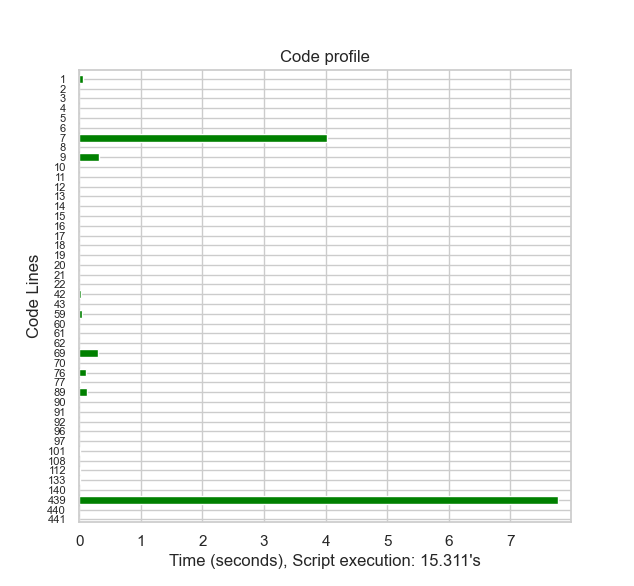
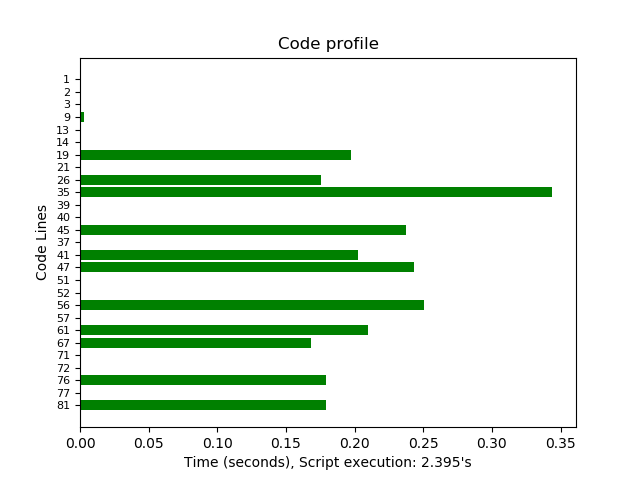
Third version in which file is copied for use by the script erased lines

Changed region(s): [[0.03, 0.0625, 0.929, 1.0]]

diff --git a/example_testfile_STP_test.py b/example_testfile_STP_test.py
@@ -20,36 +20,134 @@ speedtest_startime = datetime.now()
 import matplotlib.pyplot as plt
 STP_check(2, speedtest_startime)
 speedtest_startime = datetime.now()
+# This file will be use for the speedtest
+STP_check(3, speedtest_startime)
+speedtest_startime = datetime.now()
 ts = pd.Series(np.random.randn(1000),
                index=pd.date_range("1/1/2000", periods=1000))
 ts
 ts = np.exp(ts.cumsum())
-STP_check(6, speedtest_startime)
+STP_check(9, speedtest_startime)
 speedtest_startime = datetime.now()
 df = pd.DataFrame(np.random.randn(1000, 4),
                   index=ts.index, columns=list("ABCD"))
 df
 df.head()
-STP_check(10, speedtest_startime)
+STP_check(13, speedtest_startime)
 speedtest_startime = datetime.now()
 df.head()
-STP_check(11, speedtest_startime)
+STP_check(14, speedtest_startime)
 speedtest_startime = datetime.now()
 for i in df.index:
     df.tail()
 df.head()
 df.head()
-STP_check(16, speedtest_startime)
+STP_check(19, speedtest_startime)
 speedtest_startime = datetime.now()
 df.tail()
-STP_check(17, speedtest_startime)
+STP_check(21, speedtest_startime)
 speedtest_startime = datetime.now()
 for i in df.index:
-    
     df.tail()
 df.tail()
 df.tail()
-STP_check(24, speedtest_startime)
+STP_check(26, speedtest_startime)
+speedtest_startime = datetime.now()
+for i in df.index:
+    df.tail()
+ts = pd.Series(np.random.randn(1000),
+               index=pd.date_range("1/1/2000", periods=1000))
+ts
+ts = np.exp(ts.cumsum())
+STP_check(34, speedtest_startime)
+speedtest_startime = datetime.now()
+df = pd.DataFrame(np.random.randn(1000, 4),
+                  index=ts.index, columns=list("ABCD"))
+df
+df.head()
+STP_check(38, speedtest_startime)
+speedtest_startime = datetime.now()
+df.head()
+STP_check(40, speedtest_startime)
+speedtest_startime = datetime.now()
+for i in df.index:
+    df.tail()
+df.head()
+df.head()
+STP_check(36, speedtest_startime)
+speedtest_startime = datetime.now()
+df.tail()
+STP_check(37, speedtest_startime)
+speedtest_startime = datetime.now()
+for i in df.index:
+    df.tail()
+df.tail()
+df.tail()
+STP_check(41, speedtest_startime)
+speedtest_startime = datetime.now()
+for i in df.index:
+    df.tail()
+ts = pd.Series(np.random.randn(1000),
+               index=pd.date_range("1/1/2000", periods=1000))
+ts
+ts = np.exp(ts.cumsum())
+STP_check(47, speedtest_startime)
+speedtest_startime = datetime.now()
+df = pd.DataFrame(np.random.randn(1000, 4),
+                  index=ts.index, columns=list("ABCD"))
+df
+df.head()
+STP_check(51, speedtest_startime)
+speedtest_startime = datetime.now()
+df.head()
+STP_check(52, speedtest_startime)
+speedtest_startime = datetime.now()
+for i in df.index:
+    df.tail()
+df.head()
+df.head()
+STP_check(56, speedtest_startime)
+speedtest_startime = datetime.now()
+df.tail()
+STP_check(57, speedtest_startime)
+speedtest_startime = datetime.now()
+for i in df.index:
+    df.tail()
+df.tail()
+df.tail()
+STP_check(61, speedtest_startime)
+speedtest_startime = datetime.now()
+for i in df.index:
+    df.tail()
+ts = pd.Series(np.random.randn(1000),
+               index=pd.date_range("1/1/2000", periods=1000))
+ts
+ts = np.exp(ts.cumsum())
+STP_check(67, speedtest_startime)
+speedtest_startime = datetime.now()
+df = pd.DataFrame(np.random.randn(1000, 4),
+                  index=ts.index, columns=list("ABCD"))
+df
+df.head()
+STP_check(71, speedtest_startime)
+speedtest_startime = datetime.now()
+df.head()
+STP_check(72, speedtest_startime)
+speedtest_startime = datetime.now()
+for i in df.index:
+    df.tail()
+df.head()
+df.head()
+STP_check(76, speedtest_startime)
+speedtest_startime = datetime.now()
+df.tail()
+STP_check(77, speedtest_startime)
+speedtest_startime = datetime.now()
+for i in df.index:
+    df.tail()
+df.tail()
+df.tail()
+STP_check(81, speedtest_startime)
 speedtest_startime = datetime.now()
 for i in df.index:
     df.tail()

diff --git a/speed_testpy.py b/speed_testpy.py
@@ -22,20 +22,19 @@ class ScriptProfilerPy:
         self.erasedlines = []
 
         if self.filepath is not None and isinstance(self.filepath, str):
-            self.eraseEmptyLines()
+            try:
+                self.indent = len(sys.argv[1])
+            except:
+                self.indent = self.checkFileIndent()
         else:
-            raise ValueError("filepath should be complete path string to a valid py script")
-
-        try:
-            self.indent = len(sys.argv[1])
-        except:
-            self.indent = self.checkFileIndent()
+            raise ValueError(
+                "filepath should be complete path string to a valid py script")
 
     def test():
         pass
 
-    def eraseEmptyLines(self):
-        with open(self.filepath, 'r') as f:
+    def eraseEmptyLines(self, filetest_path_ext):
+        with open(filetest_path_ext, 'r') as f:
             contents = f.readlines()
             f.close()
             # Handle last line to prevent IndexError
@@ -45,16 +44,19 @@ class ScriptProfilerPy:
                     contents[i] = ""
                     self.erasedlines.append(i)
 
-        with open(self.filepath, 'w') as f:
+        with open(filetest_path_ext, 'w') as f:
             f.writelines(contents)
             f.close()
 
     def indexFirstMatch(self, matchvalue, matcharray):
         match_at = [i for i, j in enumerate(matcharray) if matchvalue <= j]
-        if len(matcharray) ==0:
+        if len(matcharray) == 0:
             return 0
         else:
-            return match_at[0]
+            try:
+                return match_at[0]
+            except:
+                return 0
 
     def Profiler(self):
         # Copy file example.txt into a new file called example_copy.txt
@@ -63,7 +65,7 @@ class ScriptProfilerPy:
         filetest_path_ext = filetest_path + '.py'
         shutil.copy2(self.filepath, filetest_path_ext)
 
-        self.eraseEmptyLines()
+        self.eraseEmptyLines(filetest_path_ext)
 
         with open(filetest_path_ext, 'r') as f:
             contents = f.readlines()

diff --git a/example_testfile.py b/example_testfile.py
@@ -2,6 +2,33 @@ import pandas as pd
 import numpy as np
 import matplotlib.pyplot as plt
 
+# This file will be use for the speedtest
+
+ts = pd.Series(np.random.randn(1000),
+               index=pd.date_range("1/1/2000", periods=1000))
+ts
+ts = np.exp(ts.cumsum())
+df = pd.DataFrame(np.random.randn(1000, 4),
+                  index=ts.index, columns=list("ABCD"))
+df
+df.head()
+df.head()
+
+
+for i in df.index:
+    df.tail()
+
+df.head()
+df.head()
+df.tail()
+
+
+for i in df.index:
+    df.tail()
+df.tail()
+df.tail()
+for i in df.index:
+    df.tail()
 
 ts = pd.Series(np.random.randn(1000),
                index=pd.date_range("1/1/2000", periods=1000))
@@ -19,7 +46,46 @@ df.head()
 df.head()
 df.tail()
 for i in df.index:
-    
+    df.tail()
+df.tail()
+df.tail()
+for i in df.index:
+    df.tail()
+ts = pd.Series(np.random.randn(1000),
+               index=pd.date_range("1/1/2000", periods=1000))
+ts
+ts = np.exp(ts.cumsum())
+df = pd.DataFrame(np.random.randn(1000, 4),
+                  index=ts.index, columns=list("ABCD"))
+df
+df.head()
+df.head()
+for i in df.index:
+    df.tail()
+df.head()
+df.head()
+df.tail()
+for i in df.index:
+    df.tail()
+df.tail()
+df.tail()
+for i in df.index:
+    df.tail()
+ts = pd.Series(np.random.randn(1000),
+               index=pd.date_range("1/1/2000", periods=1000))
+ts
+ts = np.exp(ts.cumsum())
+df = pd.DataFrame(np.random.randn(1000, 4),
+                  index=ts.index, columns=list("ABCD"))
+df
+df.head()
+df.head()
+for i in df.index:
+    df.tail()
+df.head()
+df.head()
+df.tail()
+for i in df.index:
     df.tail()
 df.tail()
 df.tail()
